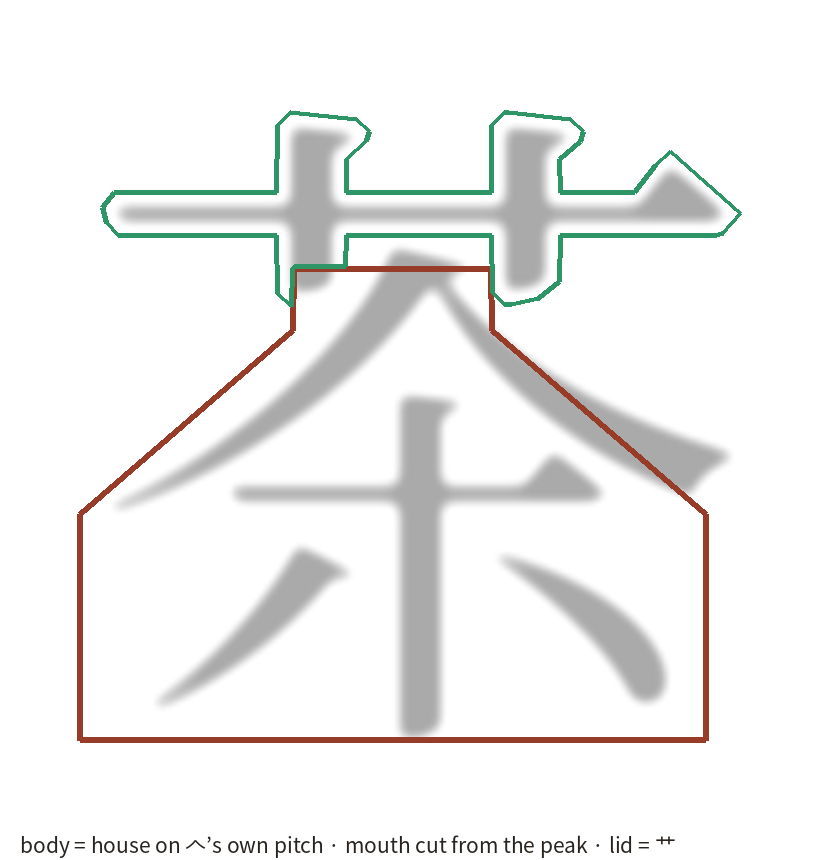
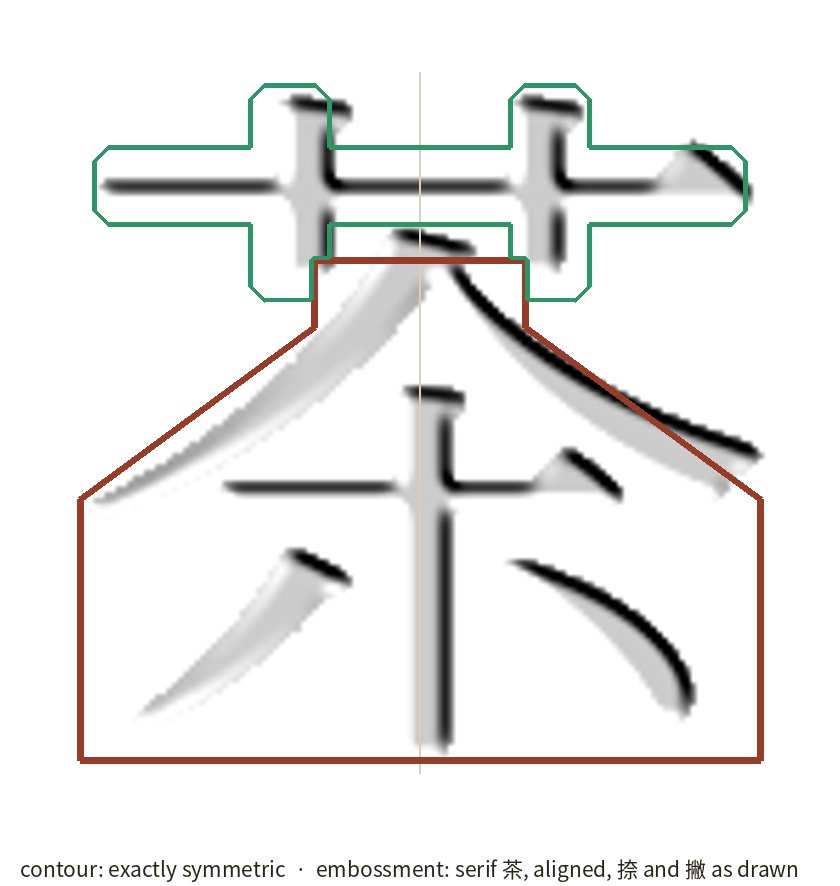
茶壶: symmetric contour, embossed strokes, two faces
Contour and embossment now come from different faces and answer to different
rules, which is what they are for.

The contour must be symmetric, because 茶 is a symmetric character and the pot's
silhouette is the part that either has that or does not. Measured against its own
best mirror axis, the serif glyph is 22.8% asymmetric and the sans one 5.2%, so
the contour uses sans — and the body outline is not traced from a raster at all
but emitted straight from the analytic house polygon, symmetric to 0.00000 em.
The lid traces the mirrored raster and lands within 1.4 px of 1024, which is
0.02 mm on a 14 cm pot.

The embossment need not be symmetric, and should not be: 捺 and 撇 are a
calligraphic pair rather than mirror images, and flattening one onto the other
costs them their life. It uses the serif face, kept exactly as drawn. The face is
a parameter, so others can be tried.

Two things that had to be measured rather than assumed:
  - An unconstrained search for the mirror axis returns an axis at the glyph's
    edge, where only a sliver overlaps and the mismatch is trivially near zero.
  - Two faces do not share metrics. Dropped in as-is the serif 茶 is wider, its
    捺 running off the roof and its 艹 sitting away from the lid outline, so the
    relief glyph is warped onto the contour glyph's box.

Also: the axis is x=509 while the image centre is 512, so exporting the relief
over the full frame put it three pixels off-axis on a pot whose whole point is
[…]

Changed region(s): [[0.0915, 0.0907, 0.9146, 0.8767], [0.0305, 0.9674, 0.9451, 0.9977]]

diff --git a/public/refs/index.html b/public/refs/index.html
@@ -30,7 +30,10 @@
 <a href="ziye_qc.png"><img src="ziye_qc.png" alt=""></a></figure>
 
 
-<figure><figcaption>茶壶 — the plan: body is the house 𠆢 implies, mouth cut from the peak, 艹 as the lid, strokes in relief</figcaption>
+<figure><figcaption>茶 — serif vs sans, and mirrored: measured asymmetry 22.8% / 5.2% / 0%</figcaption>
+<a href="cha_sym.png"><img src="cha_sym.png" alt=""></a></figure>
+
+<figure><figcaption>茶壶 — symmetric contour, serif 茶 embossed inside, 艹 as the lid</figcaption>
 <a href="cha_plan.png"><img src="cha_plan.png" alt=""></a></figure>
 <figure><figcaption>菊瓣 — the first 筋纹器: sixteen equal ribs, knob through lid to foot</figcaption>
 <a href="jubian_sheet.png"><img src="jubian_sheet.png" alt=""></a></figure>

diff --git a/tools/glyph.py b/tools/glyph.py
@@ -16,15 +16,87 @@ from scipy import ndimage
 CHAR = sys.argv[1] if len(sys.argv) > 1 else '茶'
 OUT = sys.argv[2] if len(sys.argv) > 2 else 'src/glyphs/cha.json'
 N = 1024
-FONT = sorted(glob.glob('/usr/share/fonts/opentype/noto/NotoSerifCJK-Regular.ttc'))[0]
+# Sans, not serif. 茶 is a symmetric character and a serif face fights that: its
+# 艹 carries a flared right end the left does not have, and 捺 is nothing like a
+# mirrored 撇. Measured against its own best mirror axis, the serif glyph is 22.8%
+# asymmetric and the sans one 5.2%.
+FONT = sorted(glob.glob('/usr/share/fonts/opentype/noto/NotoSansCJK-Regular.ttc'))[0]
+# The relief may use a different face from the contours. The contour wants the
+# plainest, most symmetric letterform; the bulges want calligraphic life, and
+# 捺 and 撇 are a *pair* rather than mirror images — flattening that costs them.
+RELIEF_FONT = sorted(glob.glob('/usr/share/fonts/opentype/noto/NotoSerifCJK-Regular.ttc'))[0]
 
-f = ImageFont.truetype(FONT, 820)
-im = Image.new('L', (N, N), 0)
-d = ImageDraw.Draw(im)
-bb = d.textbbox((0, 0), CHAR, font=f)
-d.text(((N - (bb[2] - bb[0])) / 2 - bb[0], (N - (bb[3] - bb[1])) / 2 - bb[1]),
-       CHAR, font=f, fill=255)
-mask = np.asarray(im) > 127
+def draw(path, size=820):
+    f = ImageFont.truetype(path, size)
+    im = Image.new('L', (N, N), 0)
+    d = ImageDraw.Draw(im)
+    bb = d.textbbox((0, 0), CHAR, font=f)
+    d.text(((N - (bb[2] - bb[0])) / 2 - bb[0], (N - (bb[3] - bb[1])) / 2 - bb[1]),
+           CHAR, font=f, fill=255)
+    return np.asarray(im) > 127
+
+mask = draw(FONT)
+
+def find_axis(m):
+    """The glyph's own vertical axis.
+
+    The axis is searched for rather than assumed to be the bounding box centre,
+    but constrained near it and required to compare a real half — an
+    unconstrained search happily returns an axis at the very edge, where only a
+    sliver overlaps and the mismatch is trivially near zero.
+    """
+    ys, xs = np.where(m)
+    x0, x1 = xs.min(), xs.max()
+    c = (x0 + x1) // 2
+    best = (1e9, c)
+    for ax in range(c - int(0.10 * (x1 - x0)), c + int(0.10 * (x1 - x0)) + 1):
+        L = min(ax - x0, x1 - ax)
+        if L < 0.40 * (x1 - x0):
+            continue
+        a = m[:, ax - L:ax]
+        b = m[:, ax + 1:ax + 1 + L][:, ::-1]
+        w = min(a.shape[1], b.shape[1])
+        mm = np.logical_xor(a[:, -w:], b[:, -w:]).sum() / max(m.sum(), 1)
+        if mm < best[0]:
+            best = (mm, ax)
+    mism, ax = best
+    print(f'  axis x={ax}; glyph is {mism*100:.1f}% asymmetric about it')
+    return ax
+
+def mirror_about(m, ax):
+    """Mirror the left half onto the right. Used for the *contours* only."""
+    ys, xs = np.where(m)
+    L = min(ax - xs.min(), xs.max() - ax)
+    half = m[:, ax - L:ax]
+    out = np.zeros_like(m)
+    out[:, ax - L:ax] = half
+    out[:, ax + 1:ax + 1 + half.shape[1]] = half[:, ::-1]
+    out[:, ax] = m[:, ax]
+    return out
+
+# The *contour* must be symmetric — it is the pot's silhouette, and 茶 is a
+# symmetric character. The *relief* need not be: 捺 and 撇 are a calligraphic
+# pair, not mirror images, and flattening that costs the strokes their life.
+# So the axis is measured, the outlines are built symmetric about it, and the
+# relief keeps the glyph exactly as drawn.
+AXIS = find_axis(mask)
+def align_to(src, ref):
+    """Warp one face's glyph onto another's box.
+
+    Two faces do not share metrics: the serif 茶 is wider than the sans one, so
+    dropped in as-is its 捺 runs off the roof and its 艹 sits away from the lid's
+    outline. Scale the relief glyph so its bounding box matches the contour
+    glyph's, and it lands where the contour says it should.
+    """
+    sy, sx = np.where(src); ry, rx = np.where(ref)
+    crop = Image.fromarray((src * 255).astype(np.uint8)).crop(
+        (sx.min(), sy.min(), sx.max() + 1, sy.max() + 1))
+    w, h = rx.max() - rx.min() + 1, ry.max() - ry.min() + 1
+    out = Image.new('L', (N, N), 0)
+    out.paste(crop.resize((w, h), Image.LANCZOS), (rx.min(), ry.min()))
+    return np.asarray(out) > 127
+
+relief_src = align_to(draw(RELIEF_FONT), mask)
 ys, xs = np.where(mask)
 em = ys.max() - ys.min()
 
@@ -48,12 +120,12 @@ order = sorted((np.where(lbl == i + 1)[0].min(), i + 1) for i in range(n))
 roof = lbl == order[1][1]                        # 艹 is order[0]; 𠆢 is next
 ry, rx = np.where(roof)
 apex_y = ry.min()
-apex_x = rx[ry == apex_y].mean()
+apex_x = float(AXIS)
 eaves_y = ry.max()                               # where the roof's arms end
 by = np.where(body)[0]
 base_y = by.max()
-half = (rx.max() - rx.min()) / 2                 # sides at the roof's own span,
-                                                 # so 撇 and 捺 both fall inside
+half = max(AXIS - rx.min(), rx.max() - AXIS)      # symmetric about the axis by
+                                                 # construction, not by luck
 cx0, cx1 = apex_x - half, apex_x + half
 
 MOUTH_W = 0.32 * em                              # a little wider than 艹's verticals
@@ -73,7 +145,7 @@ body_img = Image.new('L', (N, N), 0)
 ImageDraw.Draw(body_img).polygon(house, fill=255)
 body_d = np.asarray(body_img) > 127
 grow = 0
-lid_d = ndimage.binary_dilation(lid, iterations=int(0.02 * em))
+lid_d = ndimage.binary_dilation(mirror_about(lid, AXIS), iterations=int(0.02 * em))
 lid_d &= ~ndimage.binary_dilation(body_d, iterations=2)   # keep the seam open
 
 def outlines(m, simplify=2.0):
@@ -85,13 +157,32 @@ def outlines(m, simplify=2.0):
         pts = [(float(x), float(y)) for y, x in c]
         # Douglas-Peucker
         keep = _dp_closed(pts, simplify)
-        cx, cy = (xs.min() + xs.max()) / 2, (ys.min() + ys.max()) / 2
-        out.append([[(x - cx) / em, (cy - y) / em] for x, y in keep])
+        out.append([[(x - AXIS) / em, (CY - y) / em] for x, y in keep])
     out.sort(key=lambda p: -_area(p))
     # drop specks: marching squares finds a few 3-4 point contours around the
     # dilation's stair-steps, and they are not holes anyone meant
     biggest = _area(out[0]) if out else 0
     return [c for c in out if _area(c) > biggest * 0.01 and len(c) >= 6]
+
+
+def sym_poly(poly):
+    """Make a closed polygon exactly symmetric about x = 0.
+
+    Extracting a contour from an already-mirrored raster is not enough: the
+    simplifier chooses its keep-points independently on each side, so the two
+    halves end up a few pixels apart. Take the left chain and mirror it.
+    """
+    if not poly:
+        return poly
+    top = max(range(len(poly)), key=lambda i: (poly[i][1], -abs(poly[i][0])))
+    n = len(poly)
+    order = [poly[(top + i) % n] for i in range(n)]
+    bot = min(range(n), key=lambda i: (order[i][1], abs(order[i][0])))
+    a, b = order[:bot + 1], order[bot:] + [order[0]]
+    left = a if sum(p[0] for p in a) < sum(p[0] for p in b) else b
+    left = [[-abs(x), y] for x, y in left]
+    right = [[-x, y] for x, y in reversed(left)]
+    return left + right[1:-1]
 
 def _area(p):
     a = 0.0
@@ -132,14 +223,20 @@ def _dp(pts, eps):
     return [pts[i] for i in idx]
 
 # relief: the true strokes, softened, as a height field over the body's bbox
-relief = ndimage.gaussian_filter(mask.astype(float), sigma=em * 0.012)
+relief = ndimage.gaussian_filter(relief_src.astype(float), sigma=em * 0.012)
 relief = np.clip((relief - 0.35) / 0.5, 0, 1)
+# The relief window must be centred on the glyph's own axis, not on the image.
+# Exported over the whole 1024 frame it sits three pixels off centre, and the
+# relief then reads very slightly off-axis on a pot whose whole point is symmetry.
 R = 160
-bx0, bx1 = np.where(body_d)[1].min(), np.where(body_d)[1].max()
-by0, by1 = np.where(body_d)[0].min(), np.where(body_d)[0].max()
-grid = np.array(Image.fromarray((relief * 255).astype(np.uint8)).resize((R, R), Image.BILINEAR))
-
-cx, cy = (xs.min() + xs.max()) / 2, (ys.min() + ys.max()) / 2
+cx, cy = float(AXIS), (ys.min() + ys.max()) / 2
+halfw = max(AXIS - 0, N - AXIS)
+wx0, wx1 = int(cx - halfw), int(cx + halfw)
+pad = np.zeros((N, wx1 - wx0), float)
+src0, src1 = max(0, wx0), min(N, wx1)
+pad[:, src0 - wx0:src1 - wx0] = relief[:, src0:src1]
+grid = np.array(Image.fromarray((pad * 255).astype(np.uint8)).resize((R, R), Image.BILINEAR))
+CY = (ys.min() + ys.max()) / 2
 data = {
     'char': CHAR,
     'em': int(em),
@@ -147,11 +244,19 @@ data = {
     'mouthW': round(MOUTH_W / em, 4),
     'apexX': round((apex_x - (xs.min()+xs.max())/2) / em, 4),
     'seamY': round((cy - seam) / em, 4),
-    'body': outlines(body_d),
-    'lid': outlines(lid_d),
+    # the house is already an exact polygon; sending it through a raster and a
+    # contour tracer would only add discretisation error to a symmetric shape
+    'body': [[[round((x - AXIS) / em, 5), round((CY - y) / em, 5)] for x, y in house]],
+    # The lid raster is already exactly mirrored, so its contour is symmetric to
+    # within the tracer's own step. Splitting the polygon to force symmetry does
+    # not work here — 艹 has a wide flat top with no vertex on the axis, so there
+    # is no natural pair of half-chains — and simplifying hard breaks it, because
+    # the simplifier chooses its keep-points independently on each side. Trace it
+    # closely instead and let the residual be sub-pixel.
+    'lid': outlines(lid_d, simplify=0.6),
     'relief': {
         'size': R,
-        'x0': round((0 - cx) / em, 4), 'x1': round((N - cx) / em, 4),
+        'x0': round((wx0 - cx) / em, 4), 'x1': round((wx1 - cx) / em, 4),
         'y0': round((cy - N) / em, 4), 'y1': round((cy - 0) / em, 4),
         'data': base64.b64encode(grid.tobytes()).decode(),
     },
